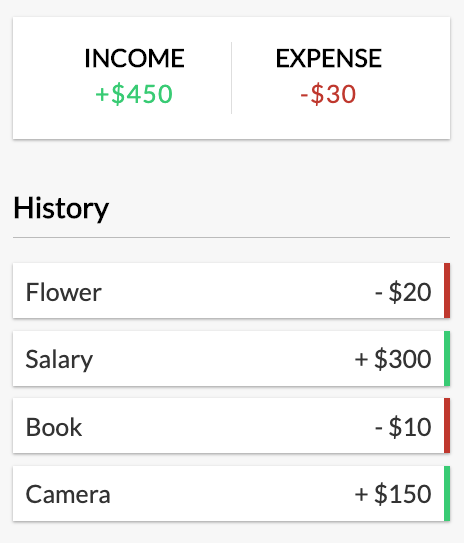
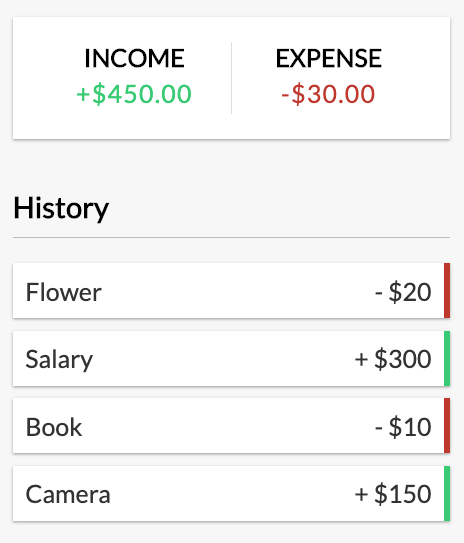
90-10-G- Destructuring with Ternary and Reduce

Changed region(s): [[0.1509, 0.1473, 0.4224, 0.2063], [0.6336, 0.1473, 0.8147, 0.2063]]

diff --git a/JavaScript/Destructuring-Adv.md b/JavaScript/Destructuring-Adv.md
@@ -48,11 +48,11 @@ export const IncomeExpenses = () => {
     <div className="inc-exp-container">
       <div>
         <h4>Income</h4>
-        <p className="money plus">+${income}</p>
+        <p className="money plus">+${income.toFixed(2)}</p>
       </div>
       <div>
         <h4>Expense</h4>
-        <p className="money minus">-${expense}</p>
+        <p className="money minus">-${expense.toFixed(2)}</p>
       </div>
     </div>
   )
